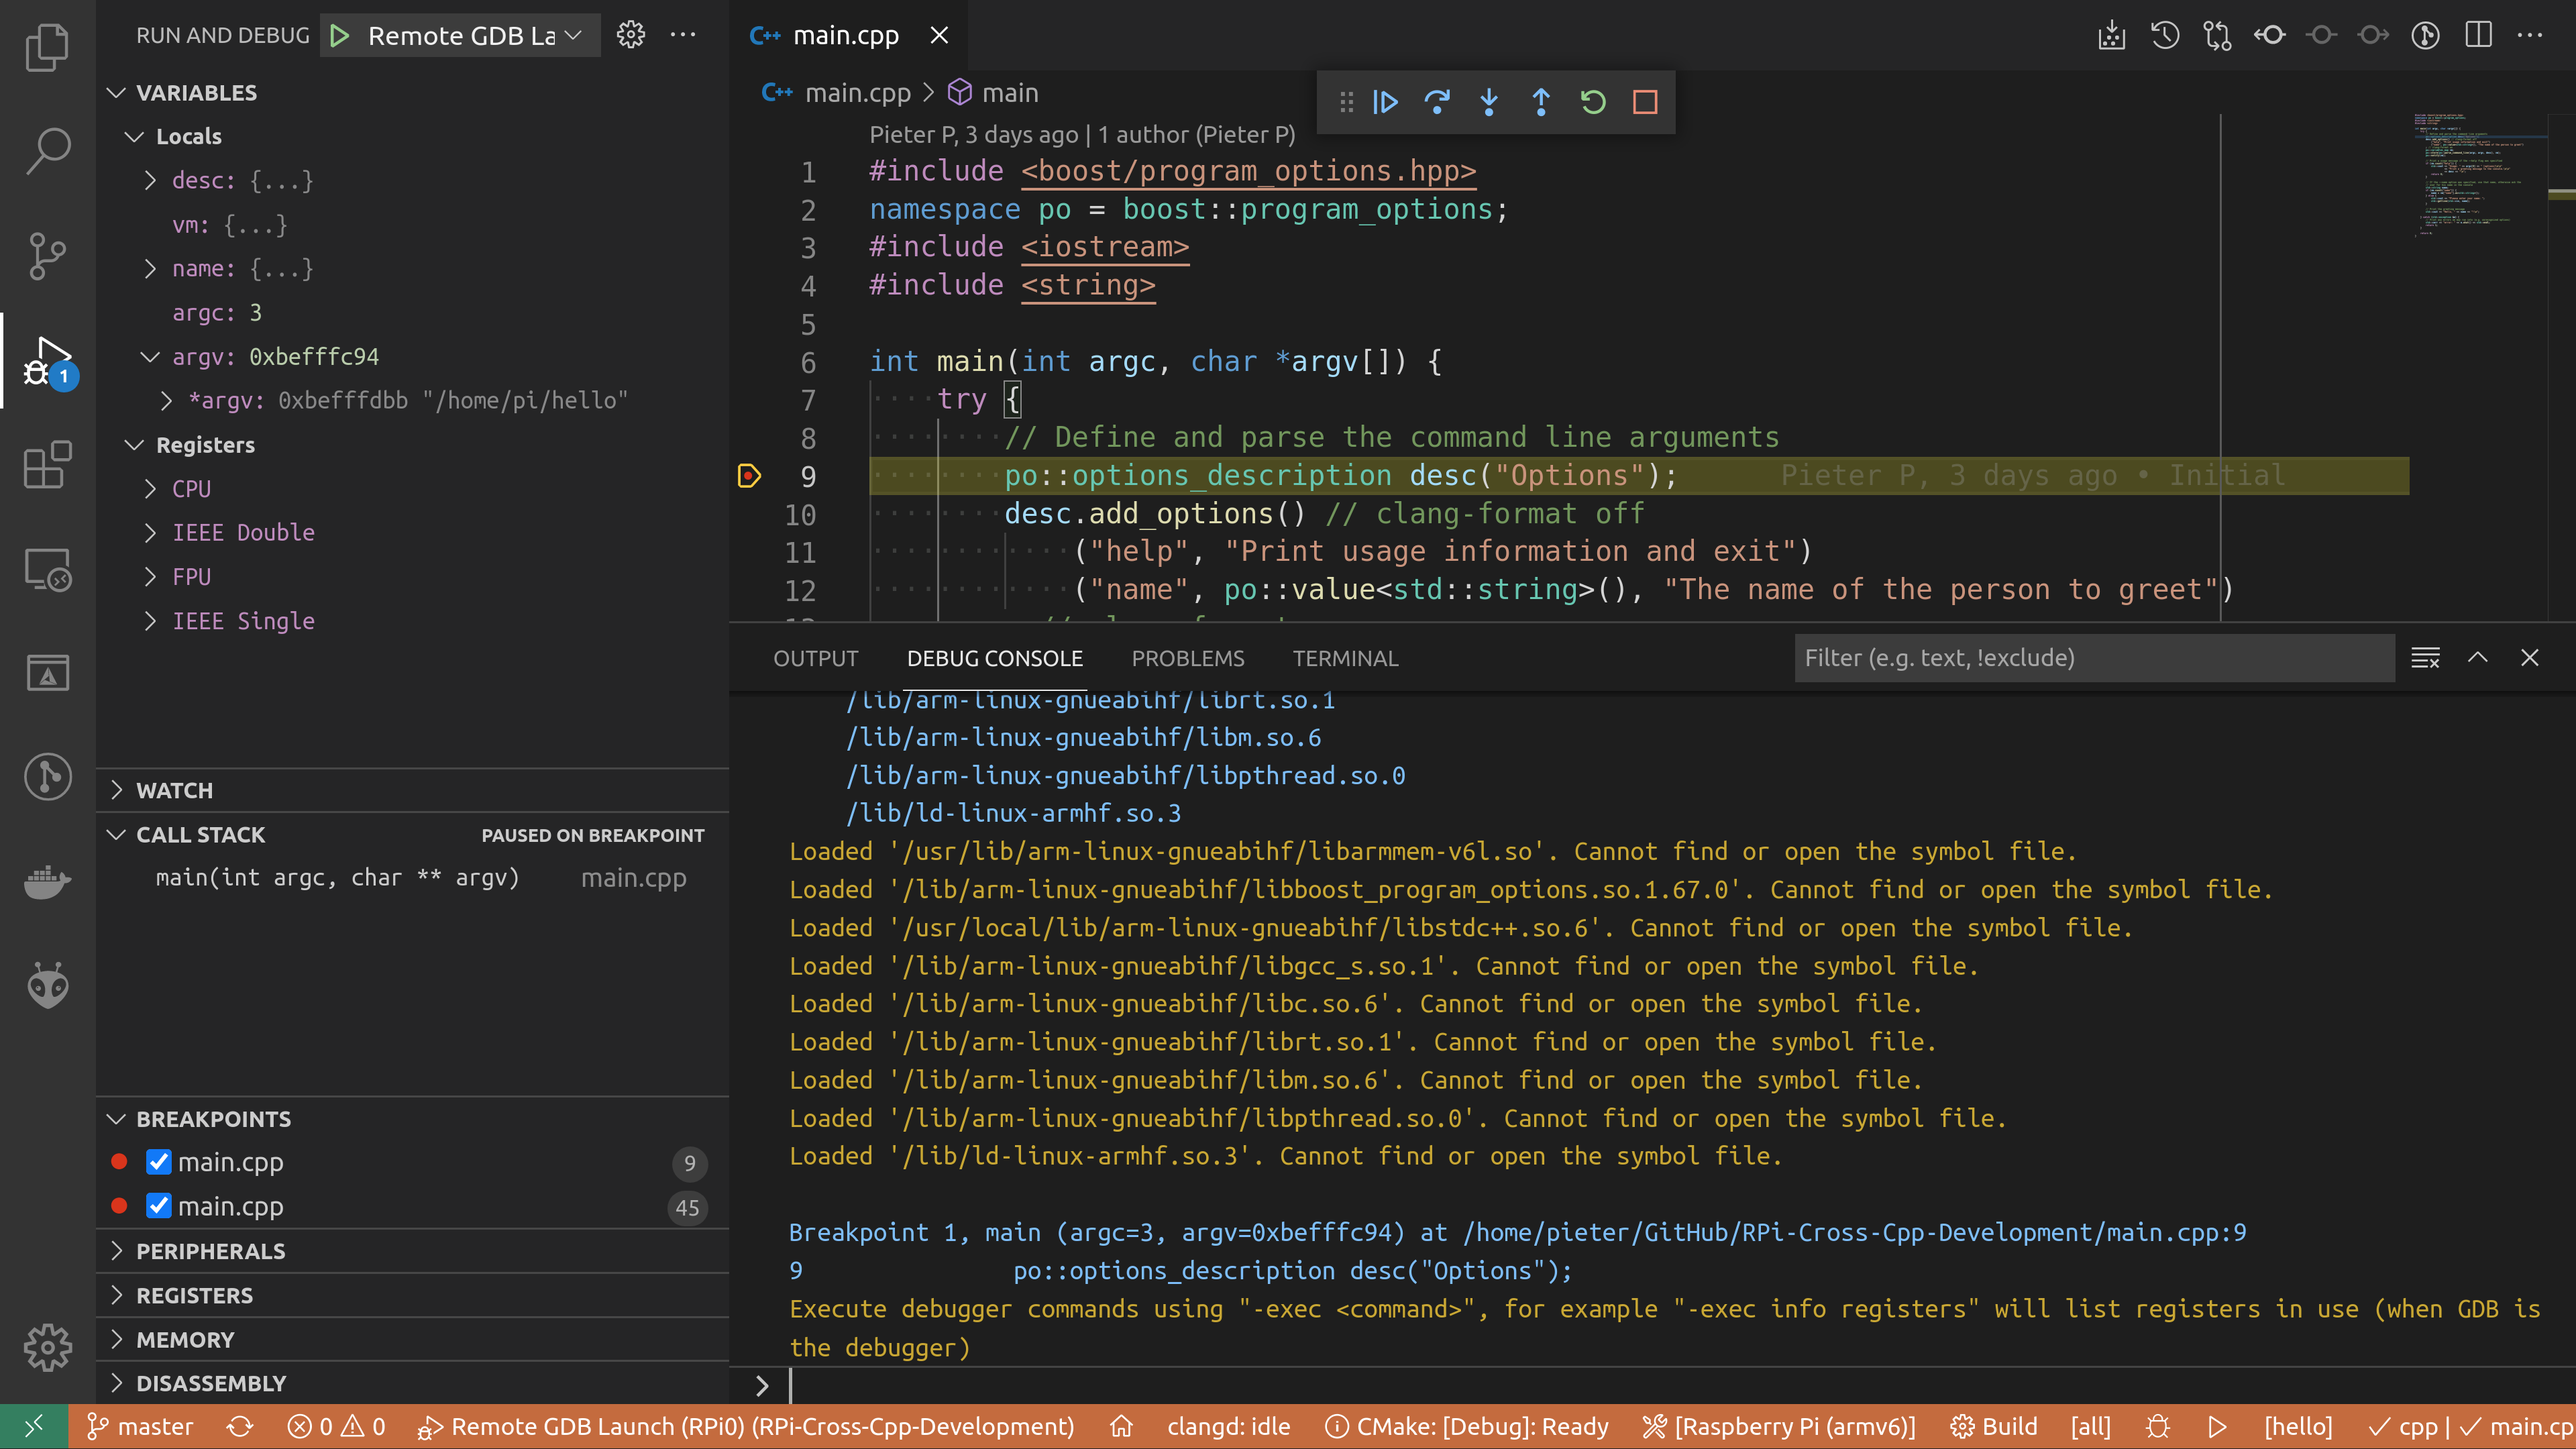
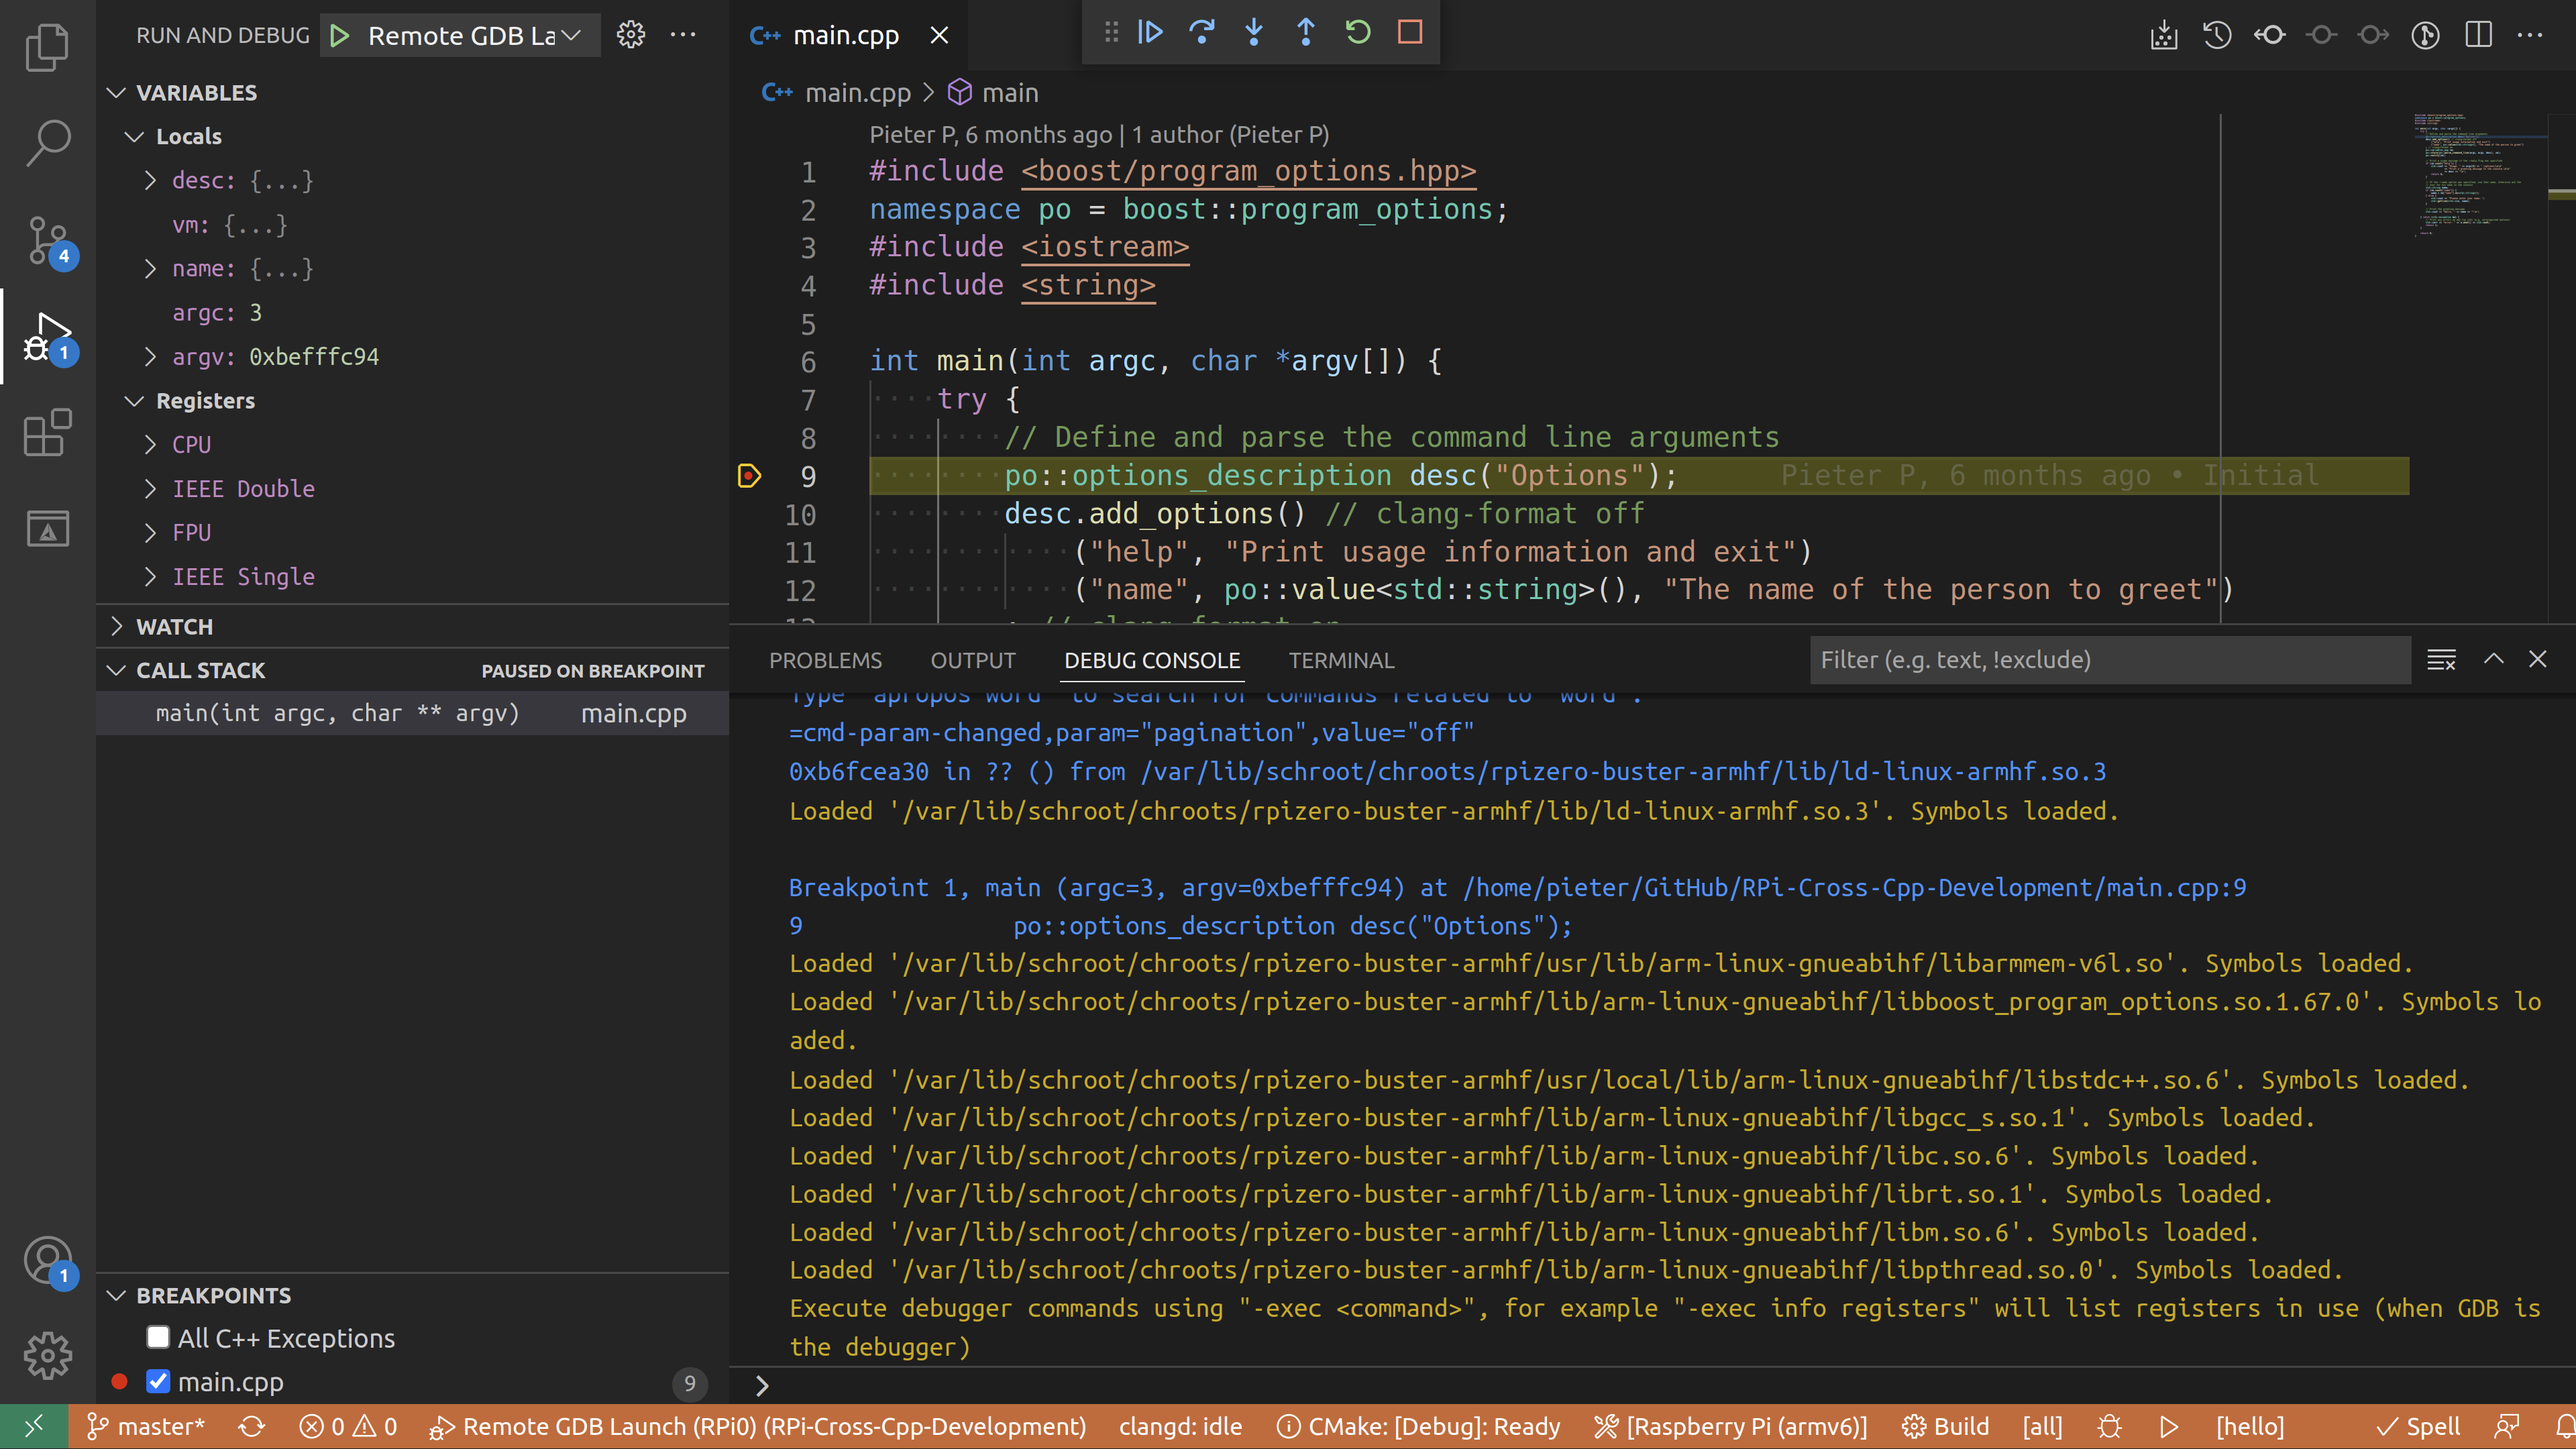
Cross-development update debug instructions (1)

diff --git a/Pages-src/Raw-HTML/Raspberry-Pi/C++-Development-RPiOS/Debugging.html b/Pages-src/Raw-HTML/Raspberry-Pi/C++-Development-RPiOS/Debugging.html
@@ -38,11 +38,11 @@
     will run on the Raspberry Pi, and we'll connect to it using <code>gdb</code>
     on our computer. First install <code>gdbserver</code> to the Pi:
 </p>
-<pre class="console"><code>scp ~/GitHub/RPi-Cpp-Toolchain/toolchain/x-tools/armv6-rpi-linux-gnueabihf/armv6-rpi-linux-gnueabihf/debug-root/usr/bin/gdbserver RPi0:~</code>
+<pre class="console"><code>scp ~/opt/x-tools/armv6-rpi-linux-gnueabihf/armv6-rpi-linux-gnueabihf/debug-root/usr/bin/gdbserver RPi0:~</code>
 <code>ssh RPi0 sudo mv gdbserver /usr/local/bin</code>
 <code>ssh RPi0 gdbserver --version
-GNU gdbserver (crosstool-NG UNKNOWN) 9.2
-Copyright (C) 2020 Free Software Foundation, Inc.
+GNU gdbserver (crosstool-NG UNKNOWN) 10.2
+Copyright (C) 2021 Free Software Foundation, Inc.
 gdbserver is free software, covered by the GNU General Public License.
 This gdbserver was configured as "armv6-rpi-linux-gnueabihf"</code></pre>
 
@@ -53,22 +53,25 @@ This gdbserver was configured as "armv6-rpi-linux-gnueabihf"</code></pre>
     using:
 </p>
 <pre class="console"><code>echo "deb http://archive.raspberrypi.org/debian/ buster main" | sudo tee /var/lib/schroot/chroots/rpizero-buster-armhf/etc/apt/sources.list.d/raspi.list</code>
-<code>wget -qO - https://archive.raspberrypi.org/debian/raspberrypi.gpg.key | sudo schroot -c source:rpizero-buster-armhf -u root -d / -- apt-key add -</code>
+<code>wget -qO- https://archive.raspberrypi.org/debian/raspberrypi.gpg.key | sudo schroot -c source:rpizero-buster-armhf -u root -d / -- apt-key add -</code>
 <code>sudo sbuild-apt rpizero-buster-armhf apt-get update</code>
 <code>sudo sbuild-apt rpizero-buster-armhf apt-get install raspi-copies-and-fills</code></pre>
+<p>
+    This is not necessary when your Raspberry Pi runs Ubuntu, for example.
+</p>
 
 <h3>Installing GDB on your computer</h3>
 
 <p>
-    To debug ARM devices, you need an ARM version of GDB. You can install one
+    To debug ARM devices, you need an ARM version of GDB.
+    The toolchain includes <code>armv6-rpi-linux-gnueabihf-gdb</code> that you
+    can use.
+</p>
+<p>
+    Alternatively, you can install the <code>gdb-multiarch</code> package
     using:
 </p>
 <pre class="console"><code>sudo apt install gdb-multiarch</code></pre>
-
-<p>
-    The toolchain includes <code>armv6-rpi-linux-gnueabihf-gdb</code>, but for
-    some reason, this version of GDB doesn't play well with VSCode.
-</p>
 
 <h3>Running GDB manually from the command line</h3>
 
@@ -78,13 +81,13 @@ This gdbserver was configured as "armv6-rpi-linux-gnueabihf"</code></pre>
 </p>
 <pre class="console"><code>armv6-rpi-linux-gnueabihf-gdb ./build/hello</code></pre>
 <p>
-    Set the sysroot and start gdbserver over SSH. Then type <code>c</code> or <code>continue</code> to run the program:
+    Set the sysroot and start gdbserver over SSH. Then type <kbd>c</kbd> or <kbd>continue</kbd> to run the program:
 </p>
 <pre class="console gdb"><code>set sysroot /var/lib/schroot/chroots/rpizero-buster-armhf</code>
 <code>target remote | ssh RPi0 gdbserver - '~/hello' --name Pieter</code>
 <code>continue</code></pre>
 <p>
-    Use <code>q</code> or <kbd>Ctrl+D</kbd> to quit GDB.
+    Use <kbd>q</kbd> or <kbd>Ctrl+D</kbd> to quit GDB.
 </p>
 @image{
 "file": "images/gdb-cmd.png"
@@ -98,12 +101,16 @@ This gdbserver was configured as "armv6-rpi-linux-gnueabihf"</code></pre>
     call stack and variables, and so on, like you would during a normal native debug session.<br>
     The “C/C++” extension by Microsoft is required for debugging support.
 </p>
+<p>
+    Before you start debugging, edit <code>launch.json</code> and edit the paths to the sysroot 
+    as appropriate. You might want to edit the SSH configuration and destination path in 
+    <code>tasks.json</code> as well.
+</p>
 @image{
 "file": "images/gdb-vscode.png"
 }
 <p>
     For some reason, the standard output of the program is not visible in VSCode.
-    I'll probably open an issue to try and figure this out.
 </p>
 
 </html>

diff --git a/Pages-src/Raw-HTML/Raspberry-Pi/C++-Development-Ubuntu/index.html b/Pages-src/Raw-HTML/Raspberry-Pi/C++-Development-Ubuntu/index.html
@@ -23,5 +23,39 @@
 </p>
 
 @codesnippet{"file": "resources/speedrun.sh"}
+@codesnippet{"file": "resources/debug.sh"}
+
+<pre class="console" style="background-color: #380C2A; color: #eee"><code>aarch64-rpi3-linux-gnu-gdb ~/RPi-dev/staging-aarch64-rpi3/bin/hello
+<span style="color: #75507B"><b>GNU gdb (crosstool-NG UNKNOWN) 10.2</b></span>
+Copyright (C) 2021 Free Software Foundation, Inc.
+License GPLv3+: GNU GPL version 3 or later &lt;http://gnu.org/licenses/gpl.html&gt;
+This is free software: you are free to change and redistribute it.
+There is NO WARRANTY, to the extent permitted by law.
+Type &quot;show copying&quot; and &quot;show warranty&quot; for details.
+This GDB was configured as &quot;--host=x86_64-build_pc-linux-gnu --target=aarch64-rpi3-linux-gnu&quot;.
+Type &quot;show configuration&quot; for configuration details.
+For bug reporting instructions, please see:
+&lt;https://www.gnu.org/software/gdb/bugs/&gt;.
+Find the GDB manual and other documentation resources online at:
+    &lt;http://www.gnu.org/software/gdb/documentation/&gt;.
+
+For help, type &quot;help&quot;.
+Type &quot;apropos word&quot; to search for commands related to &quot;word&quot;...
+Reading symbols from <span style="color: #4E9A06">~/RPi-dev/staging-aarch64-rpi3/bin/hello</span>...
+(gdb) set sysroot /var/lib/schroot/chroots/rpi3-impish-arm64
+(gdb) target remote | ssh RPi3 gdbserver - &apos;~/.local/bin/hello&apos; --name Pieter
+Remote debugging using | ssh RPi3 gdbserver - &apos;~/.local/bin/hello&apos; --name Pieter
+stdin/stdout redirected
+Process /home/ubuntu/.local/bin/hello created; pid = 5815
+Remote debugging using stdio
+Reading symbols from <span style="color: #4E9A06">/var/lib/schroot/chroots/rpi3-impish-arm64/lib/ld-linux-aarch64.so.1</span>...
+(No debugging symbols found in <span style="color: #4E9A06">/var/lib/schroot/chroots/rpi3-impish-arm64/lib/ld-linux-aarch64.so.1</span>)
+<span style="color: #3465A4">0x0000fffff7fc8d40</span> in <span style="color: #C4A000">??</span> ()
+    from <span style="color: #4E9A06">/var/lib/schroot/chroots/rpi3-impish-arm64/lib/ld-linux-aarch64.so.1</span>
+(gdb) c
+Continuing.
+Hello, Pieter!
+[Inferior 1 (process 5815) exited normally]
+(gdb) q</code></pre>
 
 </html>
